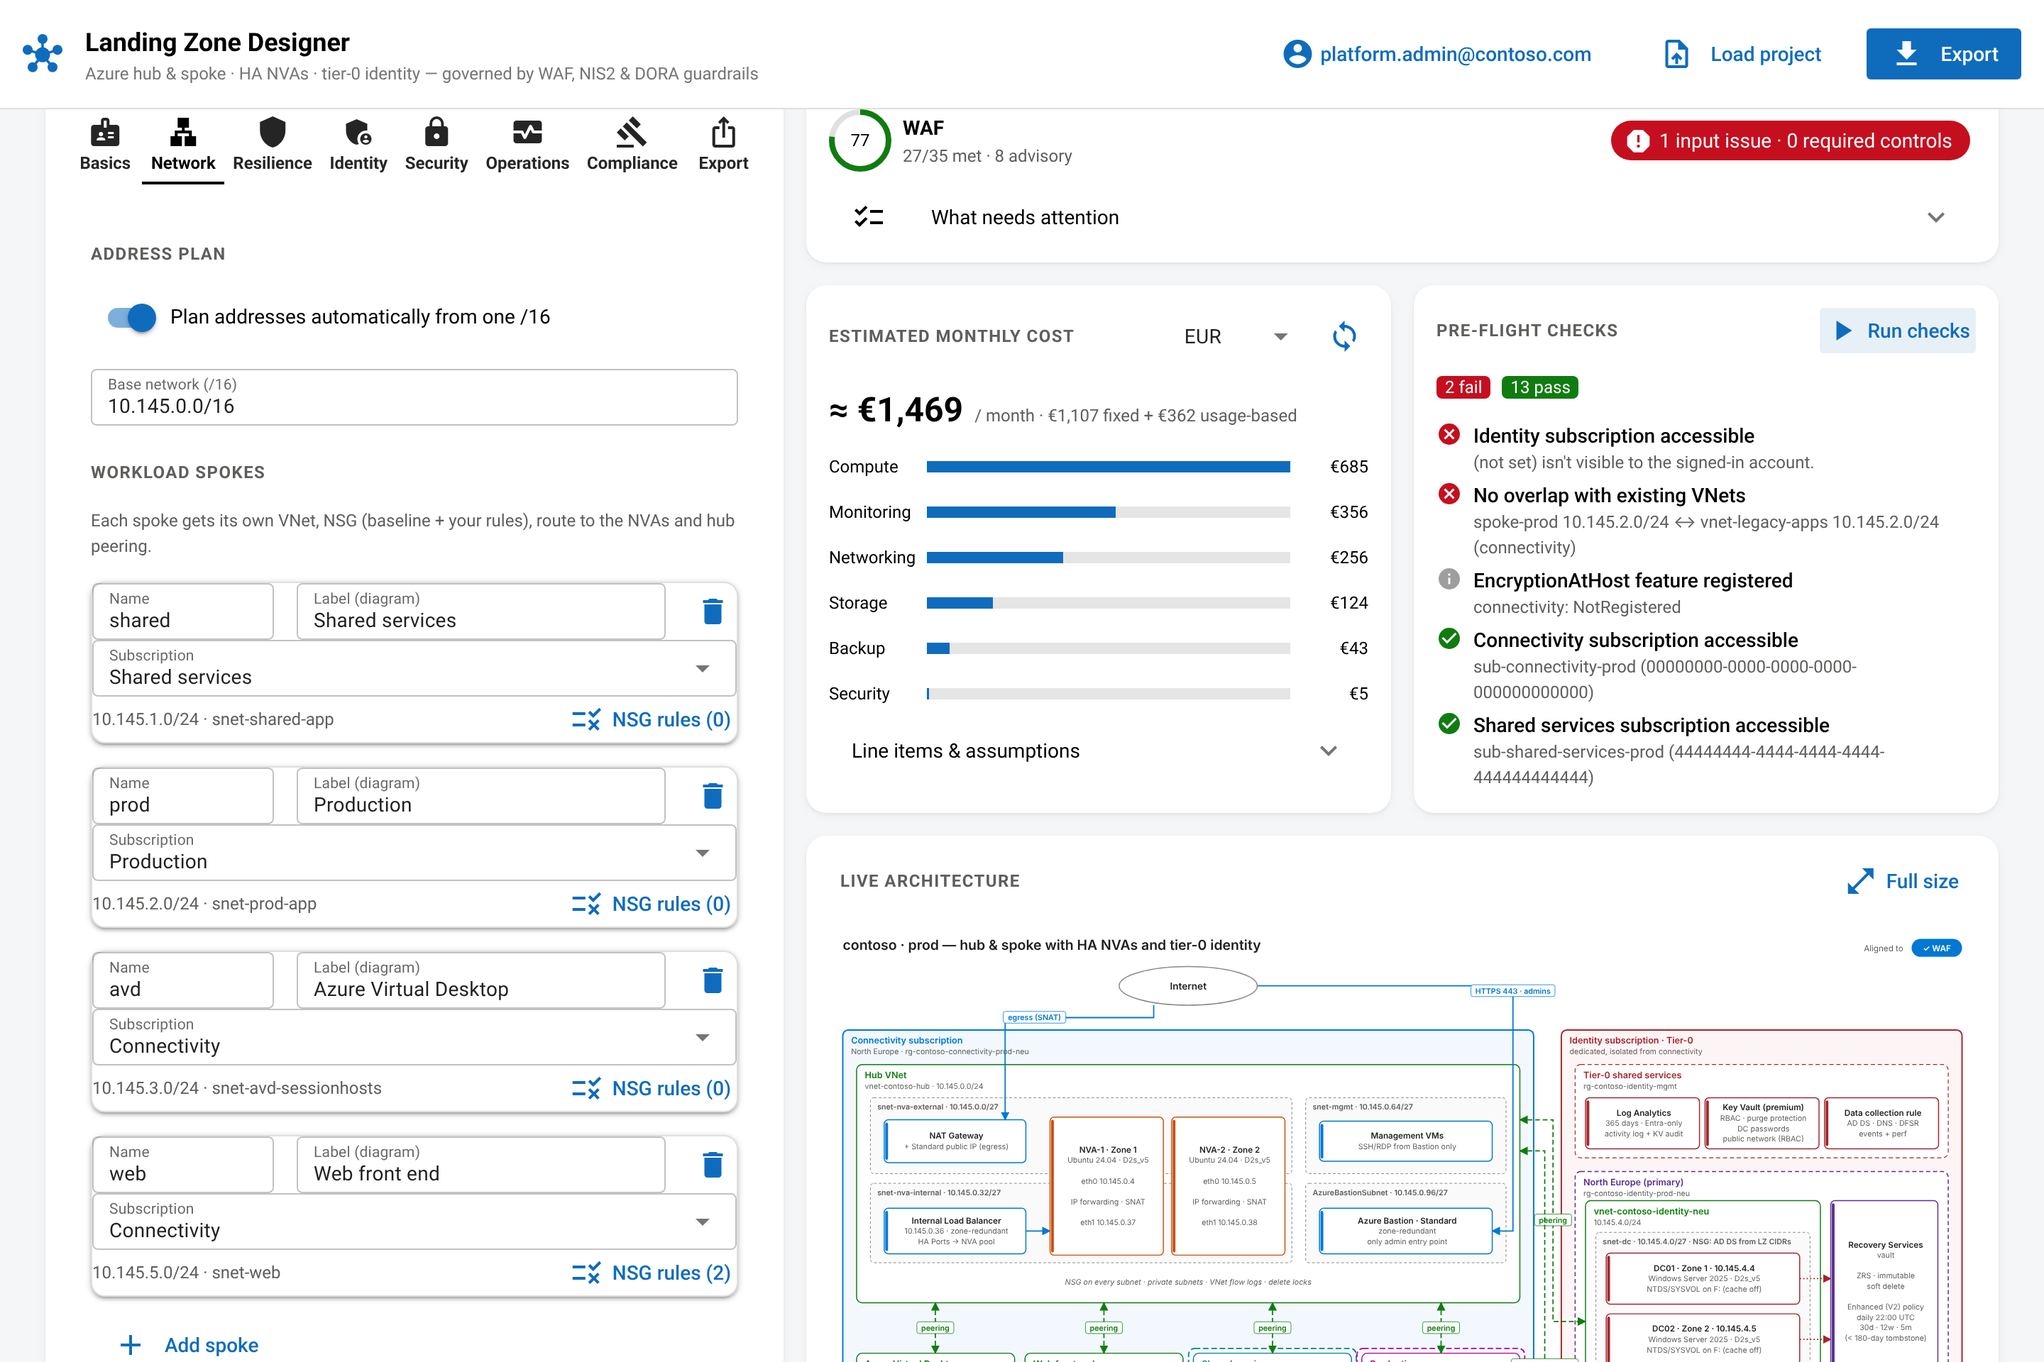
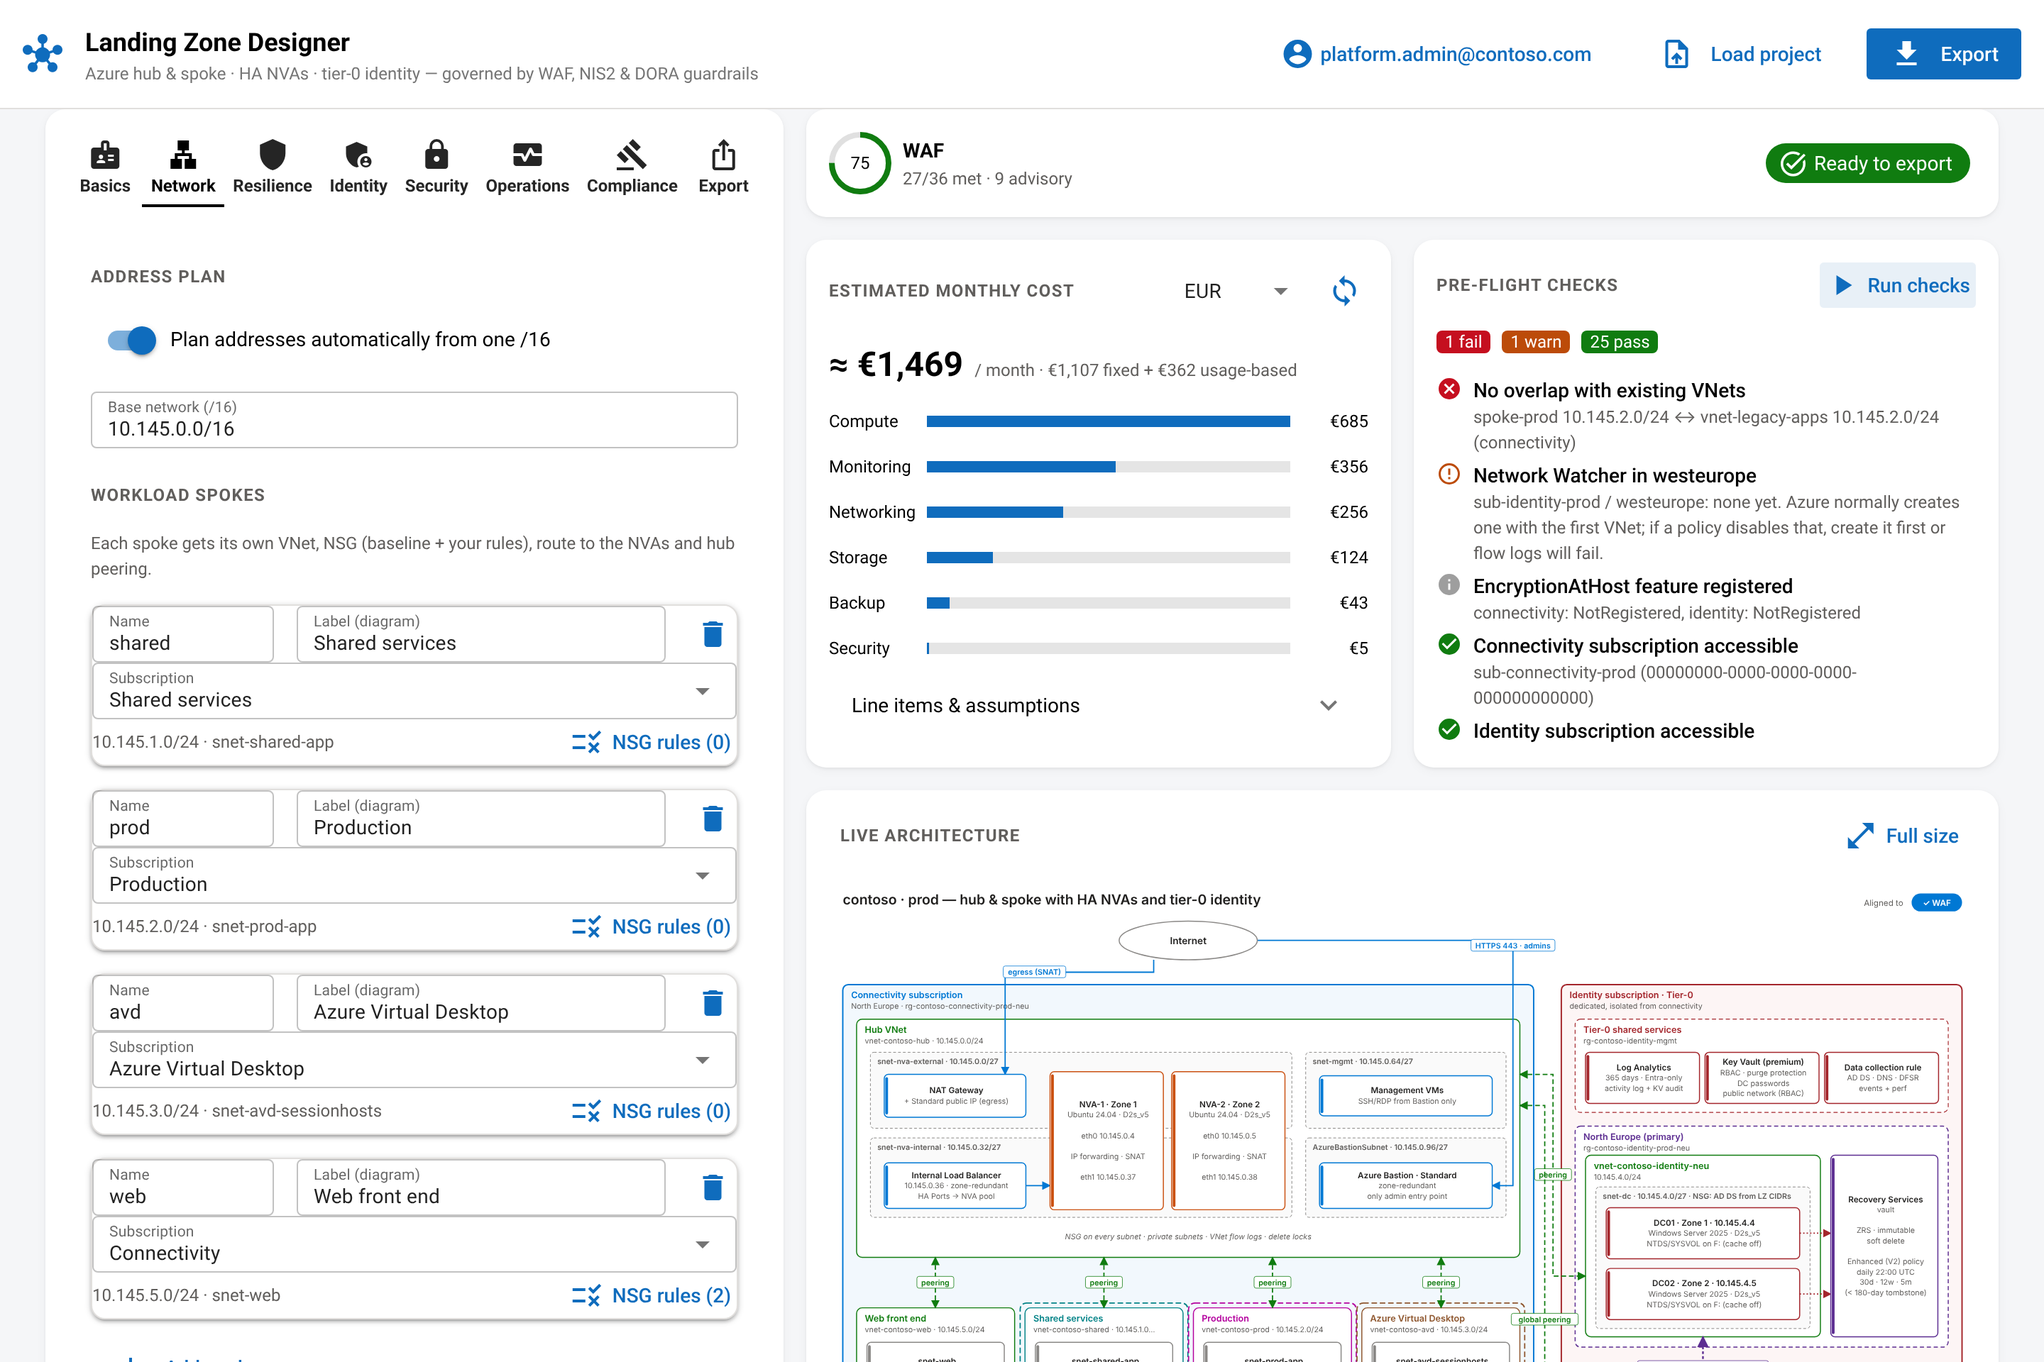
Move AVD into its own landing-zone subscription
- New avd_subscription_id, azurerm.avd provider and spokes_avd module
  block; spokes[*].subscription accepts "avd" and the default avd spoke
  now targets it (connectivity holds no workload spokes by default).
- Validation keeps all five subscriptions distinct and requires
  avd_subscription_id when a spoke uses it.
- Designer: AVD subscription picker, "Azure Virtual Desktop" spoke
  target, AVD frame in the diagram, pre-flight covers the subscription,
  bootstrap command adds it as a --landing-zone-sub. Default design now
  passes SEC-17 (workloads in landing-zone subscriptions).
- README diagram regenerated; docs and screenshots updated.

Tests: 20 Terraform tests (incl. AVD sharing production rejected) and
62 pytest cases.

Claude-Session: https://claude.ai/code/session_015qFucDhrqFoMSraDi5iaRC

diff --git a/gui/tests/test_preflight.py b/gui/tests/test_preflight.py
@@ -4,6 +4,7 @@ CONN = "00000000-0000-0000-0000-000000000000"
 IDENT = "11111111-1111-1111-1111-111111111111"
 SHARED = "44444444-4444-4444-4444-444444444444"
 PROD = "55555555-5555-5555-5555-555555555555"
+AVD = "66666666-6666-6666-6666-666666666666"
 OWNER = "/providers/Microsoft.Authorization/roleDefinitions/8e3af657-a8ff-443c-a75c-2fe8c4bcb635"
 CONTRIB = "/providers/Microsoft.Authorization/roleDefinitions/b24988ac-6180-42a0-ab88-20f7382dd24c"
 
@@ -21,7 +22,7 @@ def sku(name, family, vcpus, zones, restricted_zones=()):
 class FakeTenant:
     def __init__(self, **kw):
         self.vnet_map = kw.get("vnets", {})
-        self.roles = kw.get("roles", {CONN: [OWNER], IDENT: [OWNER], SHARED: [OWNER], PROD: [OWNER]})
+        self.roles = kw.get("roles", {CONN: [OWNER], IDENT: [OWNER], SHARED: [OWNER], PROD: [OWNER], AVD: [OWNER]})
         self.features = kw.get("features", "Registered")
         self.restricted = kw.get("restricted", {})
         self.quota_free = kw.get("quota_free", 100)
@@ -34,7 +35,8 @@ class FakeTenant:
         return [{"subscriptionId": CONN, "displayName": "Connectivity", "state": "Enabled"},
                 {"subscriptionId": IDENT, "displayName": "Identity", "state": "Enabled"},
                 {"subscriptionId": SHARED, "displayName": "Shared services", "state": "Enabled"},
-                {"subscriptionId": PROD, "displayName": "Production", "state": "Enabled"}]
+                {"subscriptionId": PROD, "displayName": "Production", "state": "Enabled"},
+                {"subscriptionId": AVD, "displayName": "AVD", "state": "Enabled"}]
 
     def role_assignments(self, sub, principal_id):
         return [{"properties": {"scope": f"/subscriptions/{sub}", "roleDefinitionId": f"/subscriptions/{sub}{r}"}}
@@ -85,7 +87,7 @@ def test_detects_overlap_but_ignores_our_own_vnets(cfg):
 
 
 def test_contributor_alone_cannot_deploy(cfg):
-    bad = failing(azure.run_preflight(cfg, FakeTenant(roles={CONN: [OWNER], IDENT: [CONTRIB], SHARED: [OWNER], PROD: [OWNER]})))
+    bad = failing(azure.run_preflight(cfg, FakeTenant(roles={CONN: [OWNER], IDENT: [CONTRIB], SHARED: [OWNER], PROD: [OWNER], AVD: [OWNER]})))
     assert [c.id for c in bad] == ["RBAC-identity"]
 
 
@@ -139,9 +141,9 @@ def test_token_claims_decoding():
 
 def test_landing_zone_subscriptions_are_checked(cfg):
     tenant = FakeTenant(vnets={PROD: [("vnet-old-prod", "10.145.2.0/24")]},
-                        roles={CONN: [OWNER], IDENT: [OWNER], SHARED: [OWNER], PROD: []})
+                        roles={CONN: [OWNER], IDENT: [OWNER], SHARED: [OWNER], PROD: [], AVD: [OWNER]})
     checks = azure.run_preflight(cfg, tenant)
     ids = {c.id for c in checks}
-    assert {"SUB-Shared services", "SUB-Production", "RBAC-shared services", "RBAC-production"} <= ids
+    assert {"SUB-Shared services", "SUB-Production", "SUB-AVD", "RBAC-shared services", "RBAC-production", "RBAC-avd"} <= ids
     assert next(c for c in checks if c.id == "NET-OVERLAP").status == azure.FAIL
     assert next(c for c in checks if c.id == "RBAC-production").status == azure.WARN

diff --git a/gui/lzdesigner/validation.py b/gui/lzdesigner/validation.py
@@ -82,21 +82,21 @@ def validate(cfg: LandingZoneConfig) -> list[Issue]:
         add("nva_admin_ssh_public_key", "Paste an OpenSSH public key (ssh-ed25519 / ssh-rsa …).", "Security")
 
     # Landing-zone subscriptions for spokes
-    from .model import SPOKE_SUBSCRIPTIONS
+    from .model import SPOKE_SUBSCRIPTION_FIELDS, SPOKE_SUBSCRIPTIONS
     labels = {"subscription_id": "Connectivity", "identity_subscription_id": "Identity",
-              "shared_services_subscription_id": "Shared services", "production_subscription_id": "Production"}
-    for target in cfg.used_spoke_subscriptions():
-        fld = "shared_services_subscription_id" if target == "shared" else "production_subscription_id"
+              **{SPOKE_SUBSCRIPTION_FIELDS[t]: SPOKE_SUBSCRIPTIONS[t] for t in SPOKE_SUBSCRIPTION_FIELDS}}
+    used = cfg.used_spoke_subscriptions()
+    for target in used:
+        fld = SPOKE_SUBSCRIPTION_FIELDS[target]
         if not GUID.match(getattr(cfg, fld) or ""):
             users = ", ".join(s.key for s in cfg.spokes if s.subscription == target)
             add(fld, f"{labels[fld]} subscription ID must be a GUID (used by spoke {users}).", "Basics")
     for sp in cfg.spokes:
         if sp.subscription not in SPOKE_SUBSCRIPTIONS:
             add("spokes", f"Spoke '{sp.key}': choose connectivity, shared services or production.", "Network")
+    used_fields = {SPOKE_SUBSCRIPTION_FIELDS[t] for t in used}
     chosen = {f: getattr(cfg, f).lower() for f in labels if GUID.match(getattr(cfg, f) or "")
-              and (f in ("subscription_id", "identity_subscription_id")
-                   or (f == "shared_services_subscription_id" and "shared" in cfg.used_spoke_subscriptions())
-                   or (f == "production_subscription_id" and "prod" in cfg.used_spoke_subscriptions()))}
+              and (f in ("subscription_id", "identity_subscription_id") or f in used_fields)}
     seen: dict[str, str] = {}
     for f, sid in chosen.items():
         if sid in seen and f != "identity_subscription_id":

diff --git a/gui/lzdesigner/model.py b/gui/lzdesigner/model.py
@@ -20,6 +20,14 @@ SPOKE_SUBSCRIPTIONS = {
     "connectivity": "Connectivity",
     "shared": "Shared services",
     "prod": "Production",
+    "avd": "Azure Virtual Desktop",
+}
+
+# Terraform variable holding each landing-zone subscription.
+SPOKE_SUBSCRIPTION_FIELDS = {
+    "shared": "shared_services_subscription_id",
+    "prod": "production_subscription_id",
+    "avd": "avd_subscription_id",
 }
 
 
@@ -52,7 +60,7 @@ def default_spokes() -> list[Spoke]:
     return [
         Spoke("shared", "10.145.1.0/24", "snet-shared-app", description="Shared services", subscription="shared"),
         Spoke("prod", "10.145.2.0/24", "snet-prod-app", description="Production", subscription="prod"),
-        Spoke("avd", "10.145.3.0/24", "snet-avd-sessionhosts", description="Azure Virtual Desktop"),
+        Spoke("avd", "10.145.3.0/24", "snet-avd-sessionhosts", description="Azure Virtual Desktop", subscription="avd"),
     ]
 
 
@@ -79,6 +87,7 @@ class LandingZoneConfig:
     identity_subscription_id: str = ""
     shared_services_subscription_id: str = ""
     production_subscription_id: str = ""
+    avd_subscription_id: str = ""
     nva_admin_username: str = "nvaadmin"
     nva_admin_ssh_public_key: str = ""
 
@@ -283,8 +292,10 @@ class LandingZoneConfig:
         return [str(base + 4 + i) for i in range(len(region.dc_zones))]
 
     def subscription_for(self, target: str) -> str:
-        return {"connectivity": self.subscription_id, "shared": self.shared_services_subscription_id,
-                "prod": self.production_subscription_id}.get(target, "")
+        if target == "connectivity":
+            return self.subscription_id
+        fld = SPOKE_SUBSCRIPTION_FIELDS.get(target)
+        return getattr(self, fld) if fld else ""
 
     def used_spoke_subscriptions(self) -> list[str]:
         return [t for t in SPOKE_SUBSCRIPTIONS if t != "connectivity" and any(s.subscription == t for s in self.spokes)]

diff --git a/gui/lzdesigner/diagram.py b/gui/lzdesigner/diagram.py
@@ -27,11 +27,13 @@ C = {
     "off": "#C8C6C4",
     "lz_shared": "#038387",
     "lz_prod": "#B4009E",
+    "lz_avd": "#8E562E",
 }
 
 SPOKE_TOP, SPOKE_ROW_H = 618, 232
 LZ_STYLE = {"shared": ("Shared services subscription", C["lz_shared"]),
-            "prod": ("Production subscription", C["lz_prod"])}
+            "prod": ("Production subscription", C["lz_prod"]),
+            "avd": ("AVD subscription", C["lz_avd"])}
 
 EDGE_STYLE = {
     "traffic": dict(color=C["blue"], dash=None, start=False, width=1.8),
@@ -170,7 +172,7 @@ def build(cfg: LandingZoneConfig) -> Model:
 
     ilb = cfg.ilb_ip() or "ILB"
     # Spokes grouped by subscription so each landing zone forms one frame.
-    order = {"connectivity": 0, "shared": 1, "prod": 2}
+    order = {"connectivity": 0, "shared": 1, "prod": 2, "avd": 3}
     ordered = sorted(cfg.spokes, key=lambda sp: order.get(sp.subscription, 9))
     w = (960 - 15 * (per_row - 1)) / per_row
     placed = []
@@ -359,7 +361,8 @@ def _svg_node(n: Node) -> str:
             out.append(_t(cx + 54, y + 24, label, 11, "normal", C["text"], "start"))
             cx += 74 + len(label) * 6.5
         for label, col in [("connectivity", C["blue"]), ("tier-0 identity", C["red"]),
-                           ("shared services sub", C["lz_shared"]), ("production sub", C["lz_prod"]), ("VNet", C["green"]),
+                           ("shared services sub", C["lz_shared"]), ("production sub", C["lz_prod"]),
+                           ("AVD sub", C["lz_avd"]), ("VNet", C["green"]),
                            ("region", C["purple"]), ("NVA", C["orange"]), ("disabled", C["off"])]:
             out.append(f'<rect x="{cx}" y="{y+12}" width="16" height="16" rx="3" fill="#FFFFFF" stroke="{col}" stroke-width="2"/>')
             out.append(_t(cx + 24, y + 24, label, 11, "normal", C["text"], "start"))

diff --git a/gui/app.py b/gui/app.py
@@ -31,6 +31,7 @@ SUBSCRIPTION_FIELDS = [
     ("identity_subscription_id", "Identity (tier-0) subscription"),
     ("shared_services_subscription_id", "Shared services subscription"),
     ("production_subscription_id", "Production subscription"),
+    ("avd_subscription_id", "Azure Virtual Desktop subscription"),
 ]
 ZONES = ["1", "2", "3"]
 REGION_OPTIONS = {k: f"{r.display}  ·  {k}" for k, r in REGIONS.items()}
@@ -484,10 +485,11 @@ class Designer:
                 ui.input(f"{label} ID", placeholder="00000000-0000-0000-0000-000000000000") \
                     .bind_value(c, fld).on_value_change(self.changed).props("outlined dense").classes("w-full")
             ui.label("Sign in to Azure (top right) to pick subscriptions from your tenant.").classes("lz-hint")
-        used = {t: ", ".join(sp.key for sp in c.spokes if sp.subscription == t) for t in ("shared", "prod")}
+        used = {t: ", ".join(sp.key for sp in c.spokes if sp.subscription == t) for t in ("shared", "prod", "avd")}
         ui.label("Landing-zone subscriptions host workload spokes: "
-                 f"shared services → {used['shared'] or 'no spokes yet'}; production → {used['prod'] or 'no spokes yet'}. "
-                 "Choose each spoke's subscription on the Network tab.").classes("lz-hint")
+                 f"shared services → {used['shared'] or 'no spokes yet'}; production → {used['prod'] or 'no spokes yet'}; "
+                 f"AVD → {used['avd'] or 'no spokes yet'}. Choose each spoke's subscription on the Network tab.") \
+            .classes("lz-hint")
 
     @ui.refreshable
     def account_view(self) -> None:

diff --git a/gui/lzdesigner/tfvars.py b/gui/lzdesigner/tfvars.py
@@ -42,7 +42,7 @@ def _key(k: str) -> str:
 SECTIONS: list[tuple[str, list[str]]] = [
     ("Organisation", ["org_prefix", "environment", "location", "owner", "cost_center", "tags"]),
     ("Subscriptions", ["subscription_id", "identity_subscription_id", "shared_services_subscription_id",
-                       "production_subscription_id"]),
+                       "production_subscription_id", "avd_subscription_id"]),
     ("Network", ["hub_address_space", "enable_nat_gateway", "nva_mgmt_source_cidrs"]),
     ("Spokes", ["spokes"]),
     ("Resilience", ["zones", "nva_zones", "enable_resource_locks"]),
@@ -79,7 +79,8 @@ def tfvars_values(cfg: LandingZoneConfig) -> dict:
                             "protocol": r.protocol, "source_address_prefixes": r.source_address_prefixes,
                             "destination_port_ranges": r.destination_port_ranges} for r in sp.nsg_rules]
                     v[sp.key] = item
-            if n in ("ddos_protection_plan_id", "shared_services_subscription_id", "production_subscription_id") and not v:
+            if n in ("ddos_protection_plan_id", "shared_services_subscription_id", "production_subscription_id",
+                     "avd_subscription_id") and not v:
                 v = None
             values[n] = v
     return values

diff --git a/gui/tests/test_pipeline.py b/gui/tests/test_pipeline.py
@@ -14,8 +14,9 @@ def test_bootstrap_dry_run_matches_designer_command(cfg):
     assert "--allow-shared-key-access false" in trace and "--sku Standard_ZRS" in trace
     assert "repo:contoso/landingzones:pull_request" in trace
     assert "repo:contoso/landingzones:environment:production" in trace
-    # connectivity, identity, shared services and production
-    assert trace.count("Reader") == 4 and trace.count("User\\ Access\\ Administrator") == 4
+    # connectivity, identity, shared services, production and AVD
+    assert trace.count("Reader") == 5 and trace.count("User\\ Access\\ Administrator") == 5
+    assert "/subscriptions/66666666-6666-6666-6666-666666666666" in trace
     assert "/subscriptions/55555555-5555-5555-5555-555555555555" in trace
     assert "AZURE_APPLY_CLIENT_ID" in proc.stdout
 

diff --git a/gui/tests/test_validation.py b/gui/tests/test_validation.py
@@ -78,5 +78,12 @@ def test_landing_zone_subscriptions_required_and_distinct(cfg):
 def test_unused_landing_zone_subscription_is_optional(cfg):
     for sp in cfg.spokes:
         sp.subscription = "connectivity"
-    cfg.shared_services_subscription_id = cfg.production_subscription_id = ""
+    cfg.shared_services_subscription_id = cfg.production_subscription_id = cfg.avd_subscription_id = ""
     assert validate(cfg) == []
+
+
+def test_avd_needs_its_own_subscription(cfg):
+    cfg.avd_subscription_id = cfg.production_subscription_id
+    assert any("must be different" in i.message for i in validate(cfg))
+    cfg.avd_subscription_id = ""
+    assert "avd_subscription_id" in fields(validate(cfg))

diff --git a/gui/lzdesigner/demo.py b/gui/lzdesigner/demo.py
@@ -20,6 +20,7 @@ class DemoTenant:
             {"subscriptionId": IDENT, "displayName": "sub-identity-prod", "state": "Enabled"},
             {"subscriptionId": "44444444-4444-4444-4444-444444444444", "displayName": "sub-shared-services-prod", "state": "Enabled"},
             {"subscriptionId": "55555555-5555-5555-5555-555555555555", "displayName": "sub-production-workloads", "state": "Enabled"},
+            {"subscriptionId": "66666666-6666-6666-6666-666666666666", "displayName": "sub-avd-prod", "state": "Enabled"},
             {"subscriptionId": "22222222-2222-2222-2222-222222222222", "displayName": "sub-sandbox", "state": "Enabled"},
         ]
 

diff --git a/gui/tests/test_diagram.py b/gui/tests/test_diagram.py
@@ -47,7 +47,7 @@ def test_diagram_grows_with_spokes(cfg):
 def test_landing_zone_frames(cfg):
     m = diagram.build(cfg)
     frames = {n.id: n for n in m.nodes if n.kind == "frame"}
-    assert set(frames) == {"lz_shared_0", "lz_prod_0"}
-    assert m.byid["vnet_shared"].parent == "lz_shared_0" and m.byid["vnet_avd"].parent == "sub_conn"
+    assert set(frames) == {"lz_shared_0", "lz_prod_0", "lz_avd_0"}
+    assert m.byid["vnet_shared"].parent == "lz_shared_0" and m.byid["vnet_avd"].parent == "lz_avd_0"
     assert frames["lz_prod_0"].lines[0].startswith("Production subscription · 55555555")
     assert "(cont.)" not in frames["lz_shared_0"].lines[0]

diff --git a/gui/lzdesigner/azure.py b/gui/lzdesigner/azure.py
@@ -199,7 +199,8 @@ def run_preflight(cfg: LandingZoneConfig, client) -> list[Check]:
 
     conn, ident = cfg.subscription_id.lower(), cfg.identity_subscription_id.lower()
     subs = {s["subscriptionId"].lower(): s for s in client.subscriptions()}
-    landing = [("Shared services" if t == "shared" else "Production", cfg.subscription_for(t).lower())
+    from .model import SPOKE_SUBSCRIPTIONS
+    landing = [(SPOKE_SUBSCRIPTIONS[t] if t != "avd" else "AVD", cfg.subscription_for(t).lower())
                for t in cfg.used_spoke_subscriptions()]
 
     # 1. Subscriptions -----------------------------------------------------------

diff --git a/gui/tests/test_tfvars.py b/gui/tests/test_tfvars.py
@@ -43,7 +43,8 @@ def test_spokes_render_with_rules(cfg):
 
 def test_spoke_subscriptions_render(cfg):
     v = tfvars.tfvars_values(cfg)
-    assert v["spokes"]["shared"]["subscription"] == "shared" and v["spokes"]["avd"]["subscription"] == "connectivity"
+    assert v["spokes"]["shared"]["subscription"] == "shared" and v["spokes"]["avd"]["subscription"] == "avd"
+    assert v["avd_subscription_id"] == "66666666-6666-6666-6666-666666666666"
     assert v["production_subscription_id"] == "55555555-5555-5555-5555-555555555555"
     for sp in cfg.spokes:
         sp.subscription = "connectivity"
